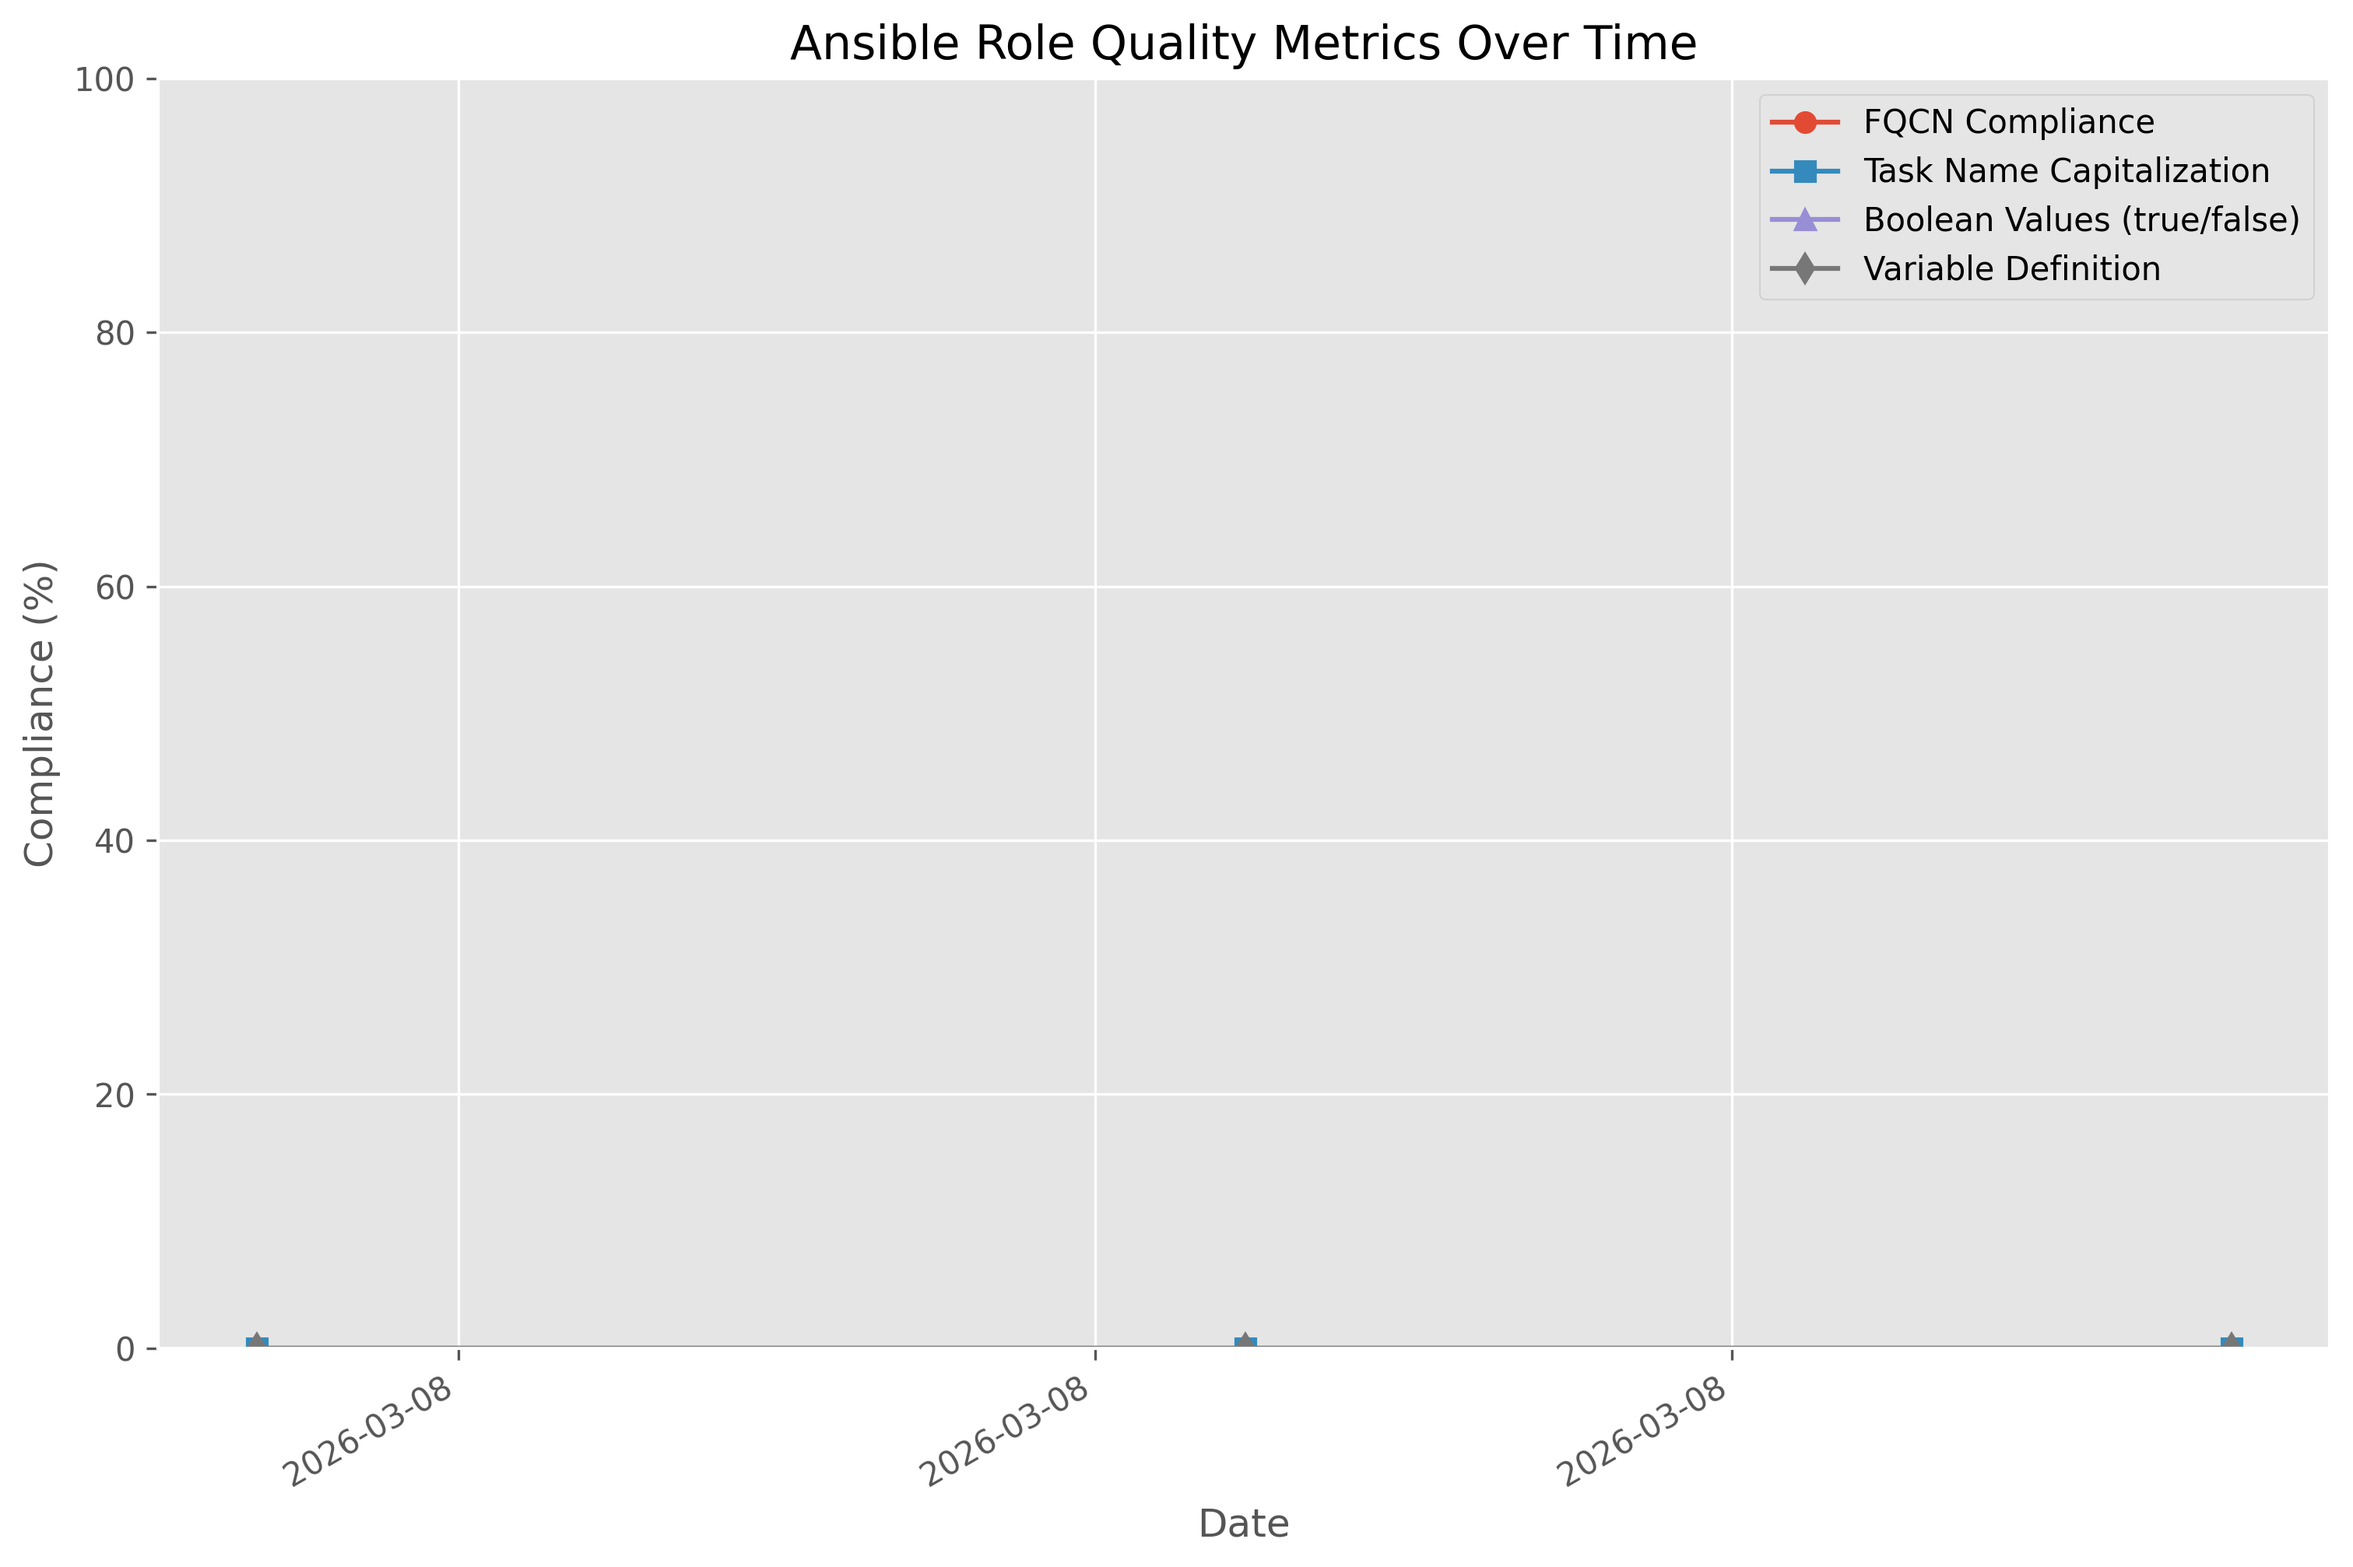
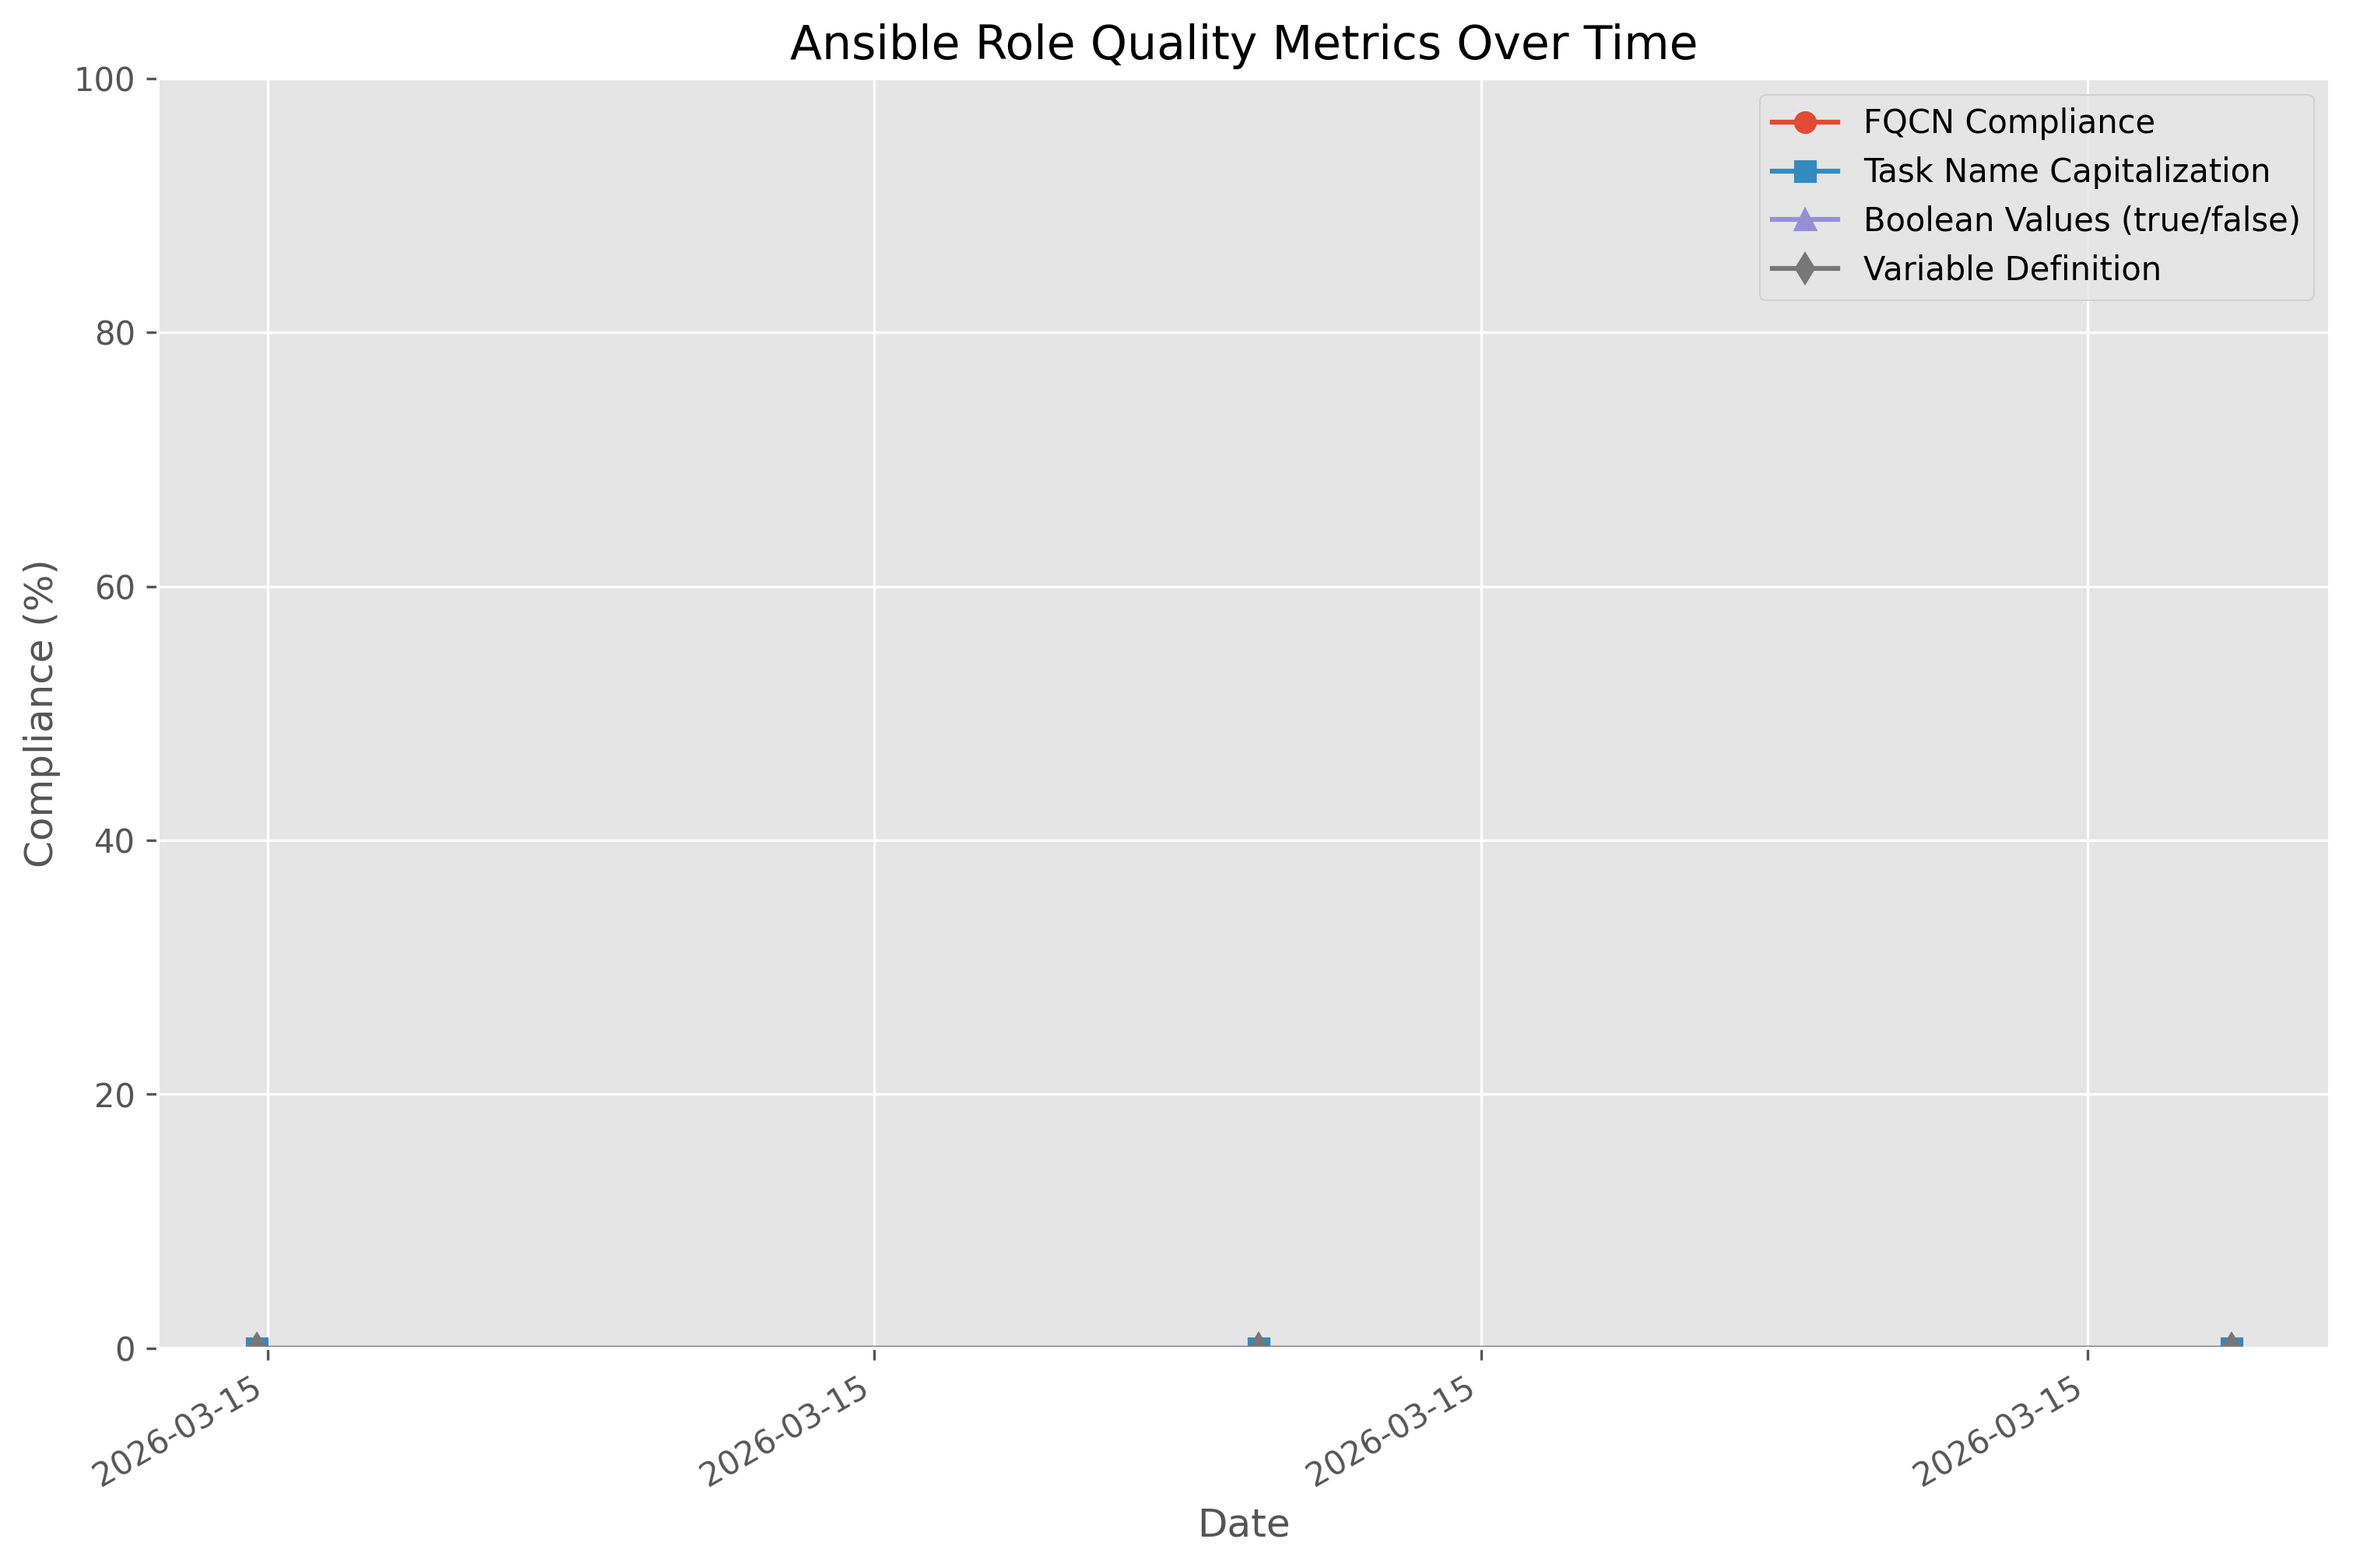
Update metrics (automated) 86381e575e3cb567ae7d61f2b827ec3665fe9a28

diff --git a/metrics/metrics_summary.md b/metrics/metrics_summary.md
@@ -1,6 +1,6 @@
 # Chef to Ansible Conversion Metrics
 
-Last updated: 2026-03-08 00:31:04
+Last updated: 2026-03-15 00:36:07
 
 ## Latest Compliance Metrics
 
